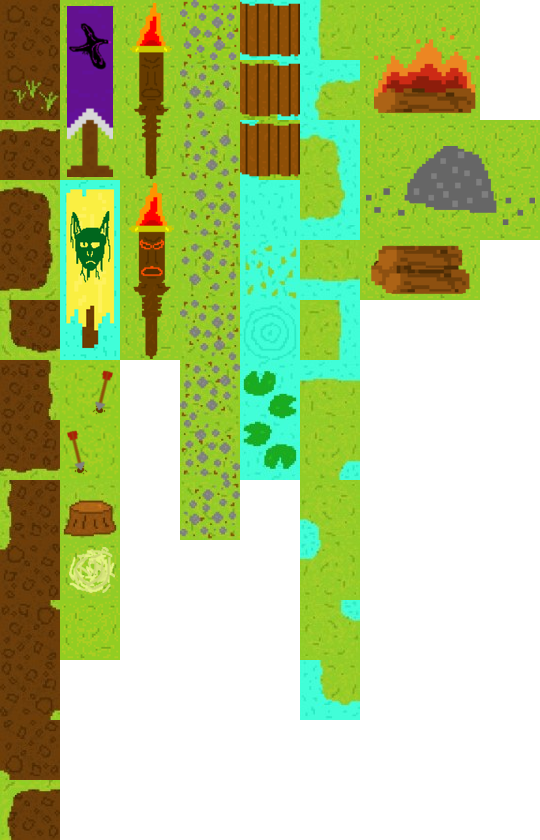
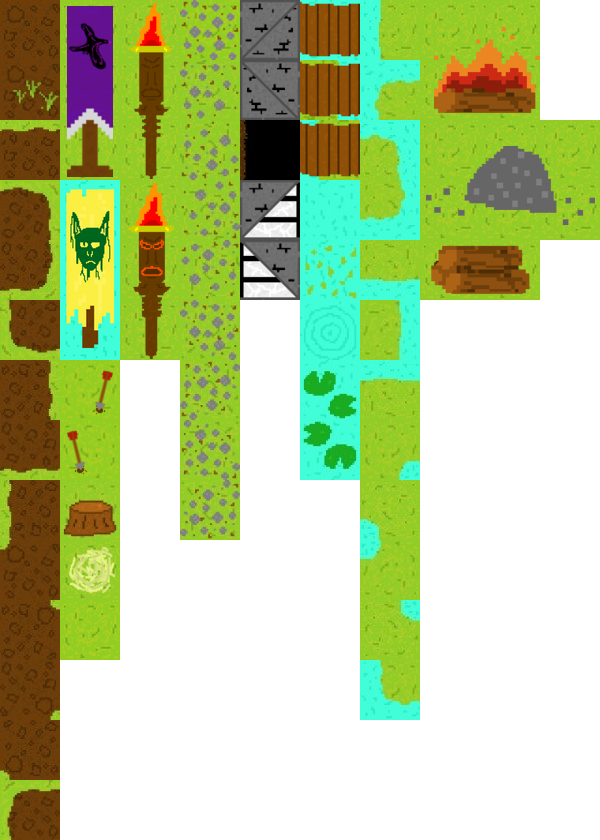
The Nilbog has opened!

diff --git a/areadata.js b/areadata.js
@@ -50,6 +50,7 @@ var Areas = { // areas should have a capital (global variable)
 		
 		areaTeleports: [
 			{
+				// teleport to logging camp (path - north)
 				x: 315,
 				y: -49,
 				width: 210,
@@ -198,7 +199,7 @@ var Areas = { // areas should have a capital (global variable)
 		
 		areaTeleports: [
 			{
-				// teleport to tutorial area (south)
+				// teleport to fishers' valley (path - south)
 				x: 990,
 				y: 1249,
 				width: 240,
@@ -216,6 +217,16 @@ var Areas = { // areas should have a capital (global variable)
 				teleportTo: "tavern",
 				destinationX: 315,
 				destinationY: 650,
+			},
+			{
+				// teleport to the nilbog (bridge - east)
+				x: 1550,
+				y: 570,
+				width: 120,
+				height: 240,
+				teleportTo: "nilbog",
+				destinationX: 200,
+				destinationY: 760,
 			},
 		],
 		
@@ -332,6 +343,105 @@ var Areas = { // areas should have a capital (global variable)
 			},
 		],
 		
+	},
+	
+	nilbog: {
+		
+		data: {
+			name: "The Nilbog",
+			level: "Level 2 - 5",
+			territory: "Hostile territory",
+		},
+
+		mapData: {
+			// make a place to specify what the tilemap is, and make each of the 2 areas use a separate tilemap
+			cols: 26,
+			rows: 26,
+			tsize: 60,
+			tilesPerRow: 10, //tiles per tilemap row (important!)
+			solidTiles: [5, 15, 25, 35, 45],
+			waterTiles: [36, 46, 56, 32, 42, 52],
+			mudTiles: [1, 11, 21, 31, 41, 51, 61, 71, 81, 91, 101, 111, 121, 131],
+			pathTiles: [4, 14, 24, 34, 44, 54, 64, 74, 84],
+			layers: [
+				[102, 57, 66, 46, 7, 102, 131, 21, 21, 31, 82, 102, 102, 33, 102, 102, 102, 102, 102, 102, 102, 102, 15, 35, 45, 5, 102, 57, 76, 76, 7, 131, 91, 1, 1, 101, 31, 102, 102, 13, 72, 102, 102, 3, 102, 102, 82, 92, 35, 45, 35, 45, 92, 57, 46, 36, 7, 81, 1, 1, 11, 111, 41, 102, 62, 23, 102, 102, 62, 13, 102, 102, 102, 102, 15, 35, 45, 5, 102, 57, 66, 36, 7, 81, 11, 1, 1, 61, 102, 102, 102, 102, 102, 102, 102, 23, 48, 49, 102, 102, 35, 45, 35, 45, 102, 57, 56, 76, 7, 51, 121, 1, 11, 61, 102, 3, 102, 102, 8, 9, 102, 102, 102, 102, 102, 102, 15, 35, 45, 5, 102, 57, 36, 46, 7, 62, 51, 71, 71, 41, 102, 13, 102, 102, 18, 19, 102, 102, 102, 102, 102, 102, 35, 45, 35, 45, 102, 57, 46, 66, 7, 102, 102, 102, 102, 102, 92, 23, 102, 102, 102, 102, 102, 102, 3, 102, 102, 102, 15, 5, 15, 5, 102, 57, 76, 36, 7, 102, 102, 102, 102, 102, 102, 102, 102, 102, 102, 102, 102, 102, 13, 102, 102, 102, 5, 25, 5, 15, 102, 57, 36, 32, 7, 92, 82, 102, 102, 102, 102, 102, 102, 48, 49, 102, 102, 62, 23, 28, 29, 30, 15, 25, 15, 5, 2, 57, 36, 42, 7, 102, 102, 102, 102, 102, 102, 102, 48, 49, 102, 102, 102, 102, 102, 38, 39, 40, 102, 4, 48, 49, 12, 57, 36, 52, 7, 102, 102, 102, 102, 102, 102, 102, 102, 102, 102, 102, 102, 102, 102, 84, 4, 4, 4, 64, 102, 62, 22, 57, 56, 36, 7, 102, 102, 102, 102, 102, 102, 102, 102, 102, 102, 102, 102, 34, 4, 64, 102, 102, 102, 102, 102, 102, 102, 57, 36, 36, 7, 102, 102, 102, 102, 102, 102, 102, 102, 102, 102, 102, 102, 102, 102, 102, 62, 102, 102, 131, 31, 102, 102, 16, 6, 6, 26, 102, 102, 102, 102, 102, 102, 102, 102, 102, 102, 102, 102, 102, 102, 102, 102, 102, 131, 91, 61, 102, 102, 57, 36, 36, 7, 102, 102, 102, 102, 102, 102, 102, 102, 102, 102, 102, 102, 102, 102, 102, 131, 21, 91, 11, 61, 102, 102, 57, 36, 32, 7, 102, 82, 102, 102, 102, 77, 47, 47, 87, 48, 49, 102, 102, 102, 131, 91, 1, 1, 1, 61, 102, 102, 57, 36, 42, 7, 82, 102, 102, 102, 77, 37, 36, 46, 117, 47, 87, 102, 102, 131, 91, 1, 11, 1, 111, 41, 102, 102, 57, 46, 52, 7, 102, 102, 102, 102, 57, 36, 56, 36, 36, 66, 7, 102, 102, 81, 11, 1, 1, 1, 61, 82, 102, 102, 57, 56, 46, 7, 102, 102, 92, 102, 57, 46, 76, 36, 36, 36, 7, 102, 102, 51, 121, 1, 1, 111, 41, 102, 102, 102, 57, 36, 36, 7, 102, 102, 102, 102, 107, 27, 36, 56, 46, 17, 97, 102, 48, 49, 51, 71, 71, 41, 102, 102, 131, 102, 57, 36, 36, 7, 102, 102, 102, 48, 49, 107, 67, 67, 67, 97, 102, 102, 102, 102, 102, 102, 102, 102, 102, 131, 91, 102, 57, 36, 36, 7, 102, 102, 102, 102, 102, 102, 102, 102, 102, 102, 102, 102, 102, 102, 102, 102, 102, 62, 102, 81, 11, 102, 57, 36, 66, 7, 102, 102, 102, 102, 102, 102, 48, 49, 131, 21, 21, 21, 21, 21, 31, 48, 49, 102, 131, 91, 1, 102, 57, 46, 36, 7, 102, 102, 82, 102, 102, 102, 131, 21, 91, 1, 1, 11, 1, 1, 101, 21, 21, 21, 91, 1, 1, 30, 57, 36, 36, 7, 102, 92, 102, 102, 102, 131, 91, 11, 11, 1, 1, 1, 1, 1, 1, 1, 11, 1, 1, 11, 1, 40, 57, 36, 56, 7, 102, 102, 102, 82, 131, 91, 1, 1, 1, 1, 1, 1, 1, 1, 11, 1, 1, 1, 1, 1, 1],
+				[],
+			],
+		},
+		
+		// images that need to be loaded in
+		images: {
+			names: [
+				"tiles",
+			],
+			
+			addresses: [
+				"./assets/tilemap/nilbog.png",
+			],
+		},
+		
+		song_day: "./assets/music/Pippin-the-Hunchback.mp3",
+		song_night: "./assets/music/Pippin-the-Hunchback-night.mp3",
+		
+		areaTeleports: [
+			{
+				// teleport to logging camp (bridge - west)
+				x: 120,
+				y: 960,
+				width: 120,
+				height: 300,
+				teleportTo: "eaglecrestLoggingCamp",
+				destinationX: 1330,
+				destinationY: 400,
+			},
+		],
+		
+		questNPCs: [
+		],
+		
+		merchants: [
+		],
+		
+		characters: [
+			/*{
+				x: 2290,
+				y: 290,
+				width: 246,
+				height: 175,
+				image: "cart",
+			},*/
+		],
+		
+		villagers: [
+		],
+		
+		enemies: [
+			/*{
+				x: 1500,
+				y: 200,
+				width: 90,
+				height: 110,
+				image: "weaponsmith",
+				name: "Evil Weaponsmith Clone",
+				stats: {
+					walkSpeed: 1,
+					maxHealth: 355,
+					range: 200,
+					reloadTime: 1000,
+				}
+				leashRadius: 500,
+				projectile: {
+					width: 10,
+					height: 40,
+					adjust: {
+						// manually adjust position - make this per class (per projectile image) in the future ( tbd )
+						x: 30,
+						y: 70,
+					},
+					image: "projectile",
+				}
+			}*/
+		],
 	},
 	
 };

diff --git a/main.js b/main.js
@@ -179,9 +179,8 @@ var map = {
         var col = Math.floor(x / this.tsize);
         var row = Math.floor(y / this.tsize);
 
-        // tiles x and y are solid -- the rest are walkable
         // loop through all layers and return TRUE if any tile is solid
-        return this.layers.reduce(function (res, layer, index) {
+        return this.layers.reduce(function (res, layer, index) { // idk what res is TBD find out
             var tile = this.getTile(index, col, row);
 			var isSolid = false;
 			this.solidTiles.forEach( function(element) {
@@ -189,7 +188,6 @@ var map = {
 					isSolid = true;
 				}
 			} );
-            //var isSolid = tile === 4 || tile === 5 || tile === 6 || tile === 25 || tile === 36 || tile === 34;
             return res || isSolid;
         }.bind(this), false);
     },
@@ -205,20 +203,30 @@ var map = {
     getY: function (row) {
         return row * this.tsize;
     },
-	isWaterAtXY: function (x, y) {
+	isSlowTileAtXY: function (x, y) {
         var col = Math.floor(x / this.tsize);
         var row = Math.floor(y / this.tsize);
 
-        // check first layer only and return TRUE if any tile is water
+        // check first layer only and return TRUE if any tile is a slowing tile
         var tile = this.getTile(0, col, row);
-		var isWater = false;
-		this.waterTiles.forEach( function(element) {
-			if (tile === element) {
-				isWater = true;
-			}
-		} );
-        //var isWater = tile === 50 || tile === 51 || tile === 52;
-		return isWater;
+		var isSlow = null;
+		if (typeof this.waterTiles !== "undefined") { // check that this map contains waterTiles
+			this.waterTiles.forEach( function(element) {
+				if (tile === element) {
+					isSlow = "water";
+					return isSlow;
+				}
+			} );
+		}
+		if (typeof this.mudTiles !== "undefined") { // check that this map contains mudTiles
+			this.mudTiles.forEach( function(element) {
+				if (tile === element) {
+					isSlow = "mud";
+					return isSlow;
+				}
+			} );
+		}
+		return isSlow;
 	},
 };
 
@@ -468,8 +476,19 @@ class Hero extends Attacker {
 			this.map.isSolidTileAtXY(right, bottom) ||
 			this.map.isSolidTileAtXY(left, bottom);
 		
-		// test for water
-		if (this.map.isWaterAtXY(this.x, this.y + 50)) { // in water
+		// test for slow tiles (e.g: water, mud)
+		let slowTile = this.map.isSlowTileAtXY(this.x, this.y + 50);
+		if (slowTile === null) { // normal speed
+			this.speed = this.stats.walkSpeed;
+			// remove swimming/mud status effect
+			for(var i = 0; i < this.statusEffects.length; i++){
+				if(this.statusEffects[i].title == "Swimming" || this.statusEffects[i].title == "Stuck in the mud"){
+					this.statusEffects.splice(i,1);
+				}
+			}
+			this.updateStatusEffects();
+		}
+		else if (slowTile === "water") { // in water tile
 			if(this.speed === this.stats.walkSpeed) {
 				this.speed = this.stats.swimSpeed;
 				if(!this.statusEffects.includes({title: "Swimming", effect: "Reduced movement speed",})) { // maybe just make a function to add a status effect? ( tbd )
@@ -478,15 +497,18 @@ class Hero extends Attacker {
 				}
 			}
 		}
-		else { // normal speed
-			this.speed = this.stats.walkSpeed;
-			// remove swimming status effect
-			for(var i = 0; i < this.statusEffects.length; i++){
-				if(this.statusEffects[i].title == "Swimming"){
-					this.statusEffects.splice(i,1);
+		else if (slowTile === "mud") { // in mud tile
+			// currently mud goes the same speed as swimSpeed
+			if(this.speed === this.stats.walkSpeed) {
+				this.speed = this.stats.swimSpeed;
+				if(!this.statusEffects.includes({title: "Stuck in the mud", effect: "Reduced movement speed",})) {
+					this.statusEffects.push(new statusEffect({title: "Stuck in the mud", effect: "Reduced movement speed",}));
+					this.updateStatusEffects();
 				}
 			}
-			this.updateStatusEffects();
+		}
+		else {
+			console.error("Unknown slow tile: " + slowTile);
 		}
 		
 		if (!collision) { return; }
@@ -1854,7 +1876,7 @@ Game.secondary.render = function () {
 	// status effects
 	for(var i = 0; i < Game.hero.statusEffects.length; i++) {
 		var iconNum = 0;
-		if(Game.hero.statusEffects[i].title == "Mud"){
+		if(Game.hero.statusEffects[i].title == "Stuck in the mud"){
 			iconNum = 1;
 		}
 		else if(Game.hero.statusEffects[i].title == "Poison") {

diff --git a/assets/tilemap/nilbog.js b/assets/tilemap/nilbog.js
@@ -1,0 +1,47 @@
+(function(name,data){
+ if(typeof onTileMapLoaded === 'undefined') {
+  if(typeof TileMaps === 'undefined') TileMaps = {};
+  TileMaps[name] = data;
+ } else {
+  onTileMapLoaded(name,data);
+ }
+ if(typeof module === 'object' && module && module.exports) {
+  module.exports = data;
+ }})("nilbog",
+{ "height":26,
+ "layers":[
+        {
+         "data":[102, 57, 66, 46, 7, 102, 131, 21, 21, 31, 82, 102, 102, 33, 102, 102, 102, 102, 102, 102, 102, 102, 15, 35, 45, 5, 102, 57, 76, 76, 7, 131, 91, 1, 1, 101, 31, 102, 102, 13, 72, 102, 102, 3, 102, 102, 82, 92, 35, 45, 35, 45, 92, 57, 46, 36, 7, 81, 1, 1, 11, 111, 41, 102, 62, 23, 102, 102, 62, 13, 102, 102, 102, 102, 15, 35, 45, 5, 102, 57, 66, 36, 7, 81, 11, 1, 1, 61, 102, 102, 102, 102, 102, 102, 102, 23, 48, 49, 102, 102, 35, 45, 35, 45, 102, 57, 56, 76, 7, 51, 121, 1, 11, 61, 102, 3, 102, 102, 8, 9, 102, 102, 102, 102, 102, 102, 15, 35, 45, 5, 102, 57, 36, 46, 7, 62, 51, 71, 71, 41, 102, 13, 102, 102, 18, 19, 102, 102, 102, 102, 102, 102, 35, 45, 35, 45, 102, 57, 46, 66, 7, 102, 102, 102, 102, 102, 92, 23, 102, 102, 102, 102, 102, 102, 3, 102, 102, 102, 15, 5, 15, 5, 102, 57, 76, 36, 7, 102, 102, 102, 102, 102, 102, 102, 102, 102, 102, 102, 102, 102, 13, 102, 102, 102, 5, 25, 5, 15, 102, 57, 36, 32, 7, 92, 82, 102, 102, 102, 102, 102, 102, 48, 49, 102, 102, 62, 23, 28, 29, 30, 15, 25, 15, 5, 2, 57, 36, 42, 7, 102, 102, 102, 102, 102, 102, 102, 48, 49, 102, 102, 102, 102, 102, 38, 39, 40, 102, 4, 48, 49, 12, 57, 36, 52, 7, 102, 102, 102, 102, 102, 102, 102, 102, 102, 102, 102, 102, 102, 102, 84, 4, 4, 4, 64, 102, 62, 22, 57, 56, 36, 7, 102, 102, 102, 102, 102, 102, 102, 102, 102, 102, 102, 102, 34, 4, 64, 102, 102, 102, 102, 102, 102, 102, 57, 36, 36, 7, 102, 102, 102, 102, 102, 102, 102, 102, 102, 102, 102, 102, 102, 102, 102, 62, 102, 102, 131, 31, 102, 102, 16, 6, 6, 26, 102, 102, 102, 102, 102, 102, 102, 102, 102, 102, 102, 102, 102, 102, 102, 102, 102, 131, 91, 61, 102, 102, 57, 36, 36, 7, 102, 102, 102, 102, 102, 102, 102, 102, 102, 102, 102, 102, 102, 102, 102, 131, 21, 91, 11, 61, 102, 102, 57, 36, 32, 7, 102, 82, 102, 102, 102, 77, 47, 47, 87, 48, 49, 102, 102, 102, 131, 91, 1, 1, 1, 61, 102, 102, 57, 36, 42, 7, 82, 102, 102, 102, 77, 37, 36, 46, 117, 47, 87, 102, 102, 131, 91, 1, 11, 1, 111, 41, 102, 102, 57, 46, 52, 7, 102, 102, 102, 102, 57, 36, 56, 36, 36, 66, 7, 102, 102, 81, 11, 1, 1, 1, 61, 82, 102, 102, 57, 56, 46, 7, 102, 102, 92, 102, 57, 46, 76, 36, 36, 36, 7, 102, 102, 51, 121, 1, 1, 111, 41, 102, 102, 102, 57, 36, 36, 7, 102, 102, 102, 102, 107, 27, 36, 56, 46, 17, 97, 102, 48, 49, 51, 71, 71, 41, 102, 102, 131, 102, 57, 36, 36, 7, 102, 102, 102, 48, 49, 107, 67, 67, 67, 97, 102, 102, 102, 102, 102, 102, 102, 102, 102, 131, 91, 102, 57, 36, 36, 7, 102, 102, 102, 102, 102, 102, 102, 102, 102, 102, 102, 102, 102, 102, 102, 102, 102, 62, 102, 81, 11, 102, 57, 36, 66, 7, 102, 102, 102, 102, 102, 102, 48, 49, 131, 21, 21, 21, 21, 21, 31, 48, 49, 102, 131, 91, 1, 102, 57, 46, 36, 7, 102, 102, 82, 102, 102, 102, 131, 21, 91, 1, 1, 11, 1, 1, 101, 21, 21, 21, 91, 1, 1, 30, 57, 36, 36, 7, 102, 92, 102, 102, 102, 131, 91, 11, 11, 1, 1, 1, 1, 1, 1, 1, 11, 1, 1, 11, 1, 40, 57, 36, 56, 7, 102, 102, 102, 82, 131, 91, 1, 1, 1, 1, 1, 1, 1, 1, 11, 1, 1, 1, 1, 1, 1],
+         "height":26,
+         "name":"Tile Layer 1",
+         "opacity":1,
+         "type":"tilelayer",
+         "visible":true,
+         "width":26,
+         "x":0,
+         "y":0
+        }],
+ "nextobjectid":1,
+ "orientation":"orthogonal",
+ "renderorder":"right-down",
+ "tiledversion":"1.0.3",
+ "tileheight":60,
+ "tilesets":[
+        {
+         "columns":10,
+         "firstgid":1,
+         "image":"nilbog.png",
+         "imageheight":840,
+         "imagewidth":600,
+         "margin":0,
+         "name":"nilbog",
+         "spacing":0,
+         "tilecount":140,
+         "tileheight":60,
+         "tilewidth":60
+        }],
+ "tilewidth":60,
+ "type":"map",
+ "version":1,
+ "width":26
+});
